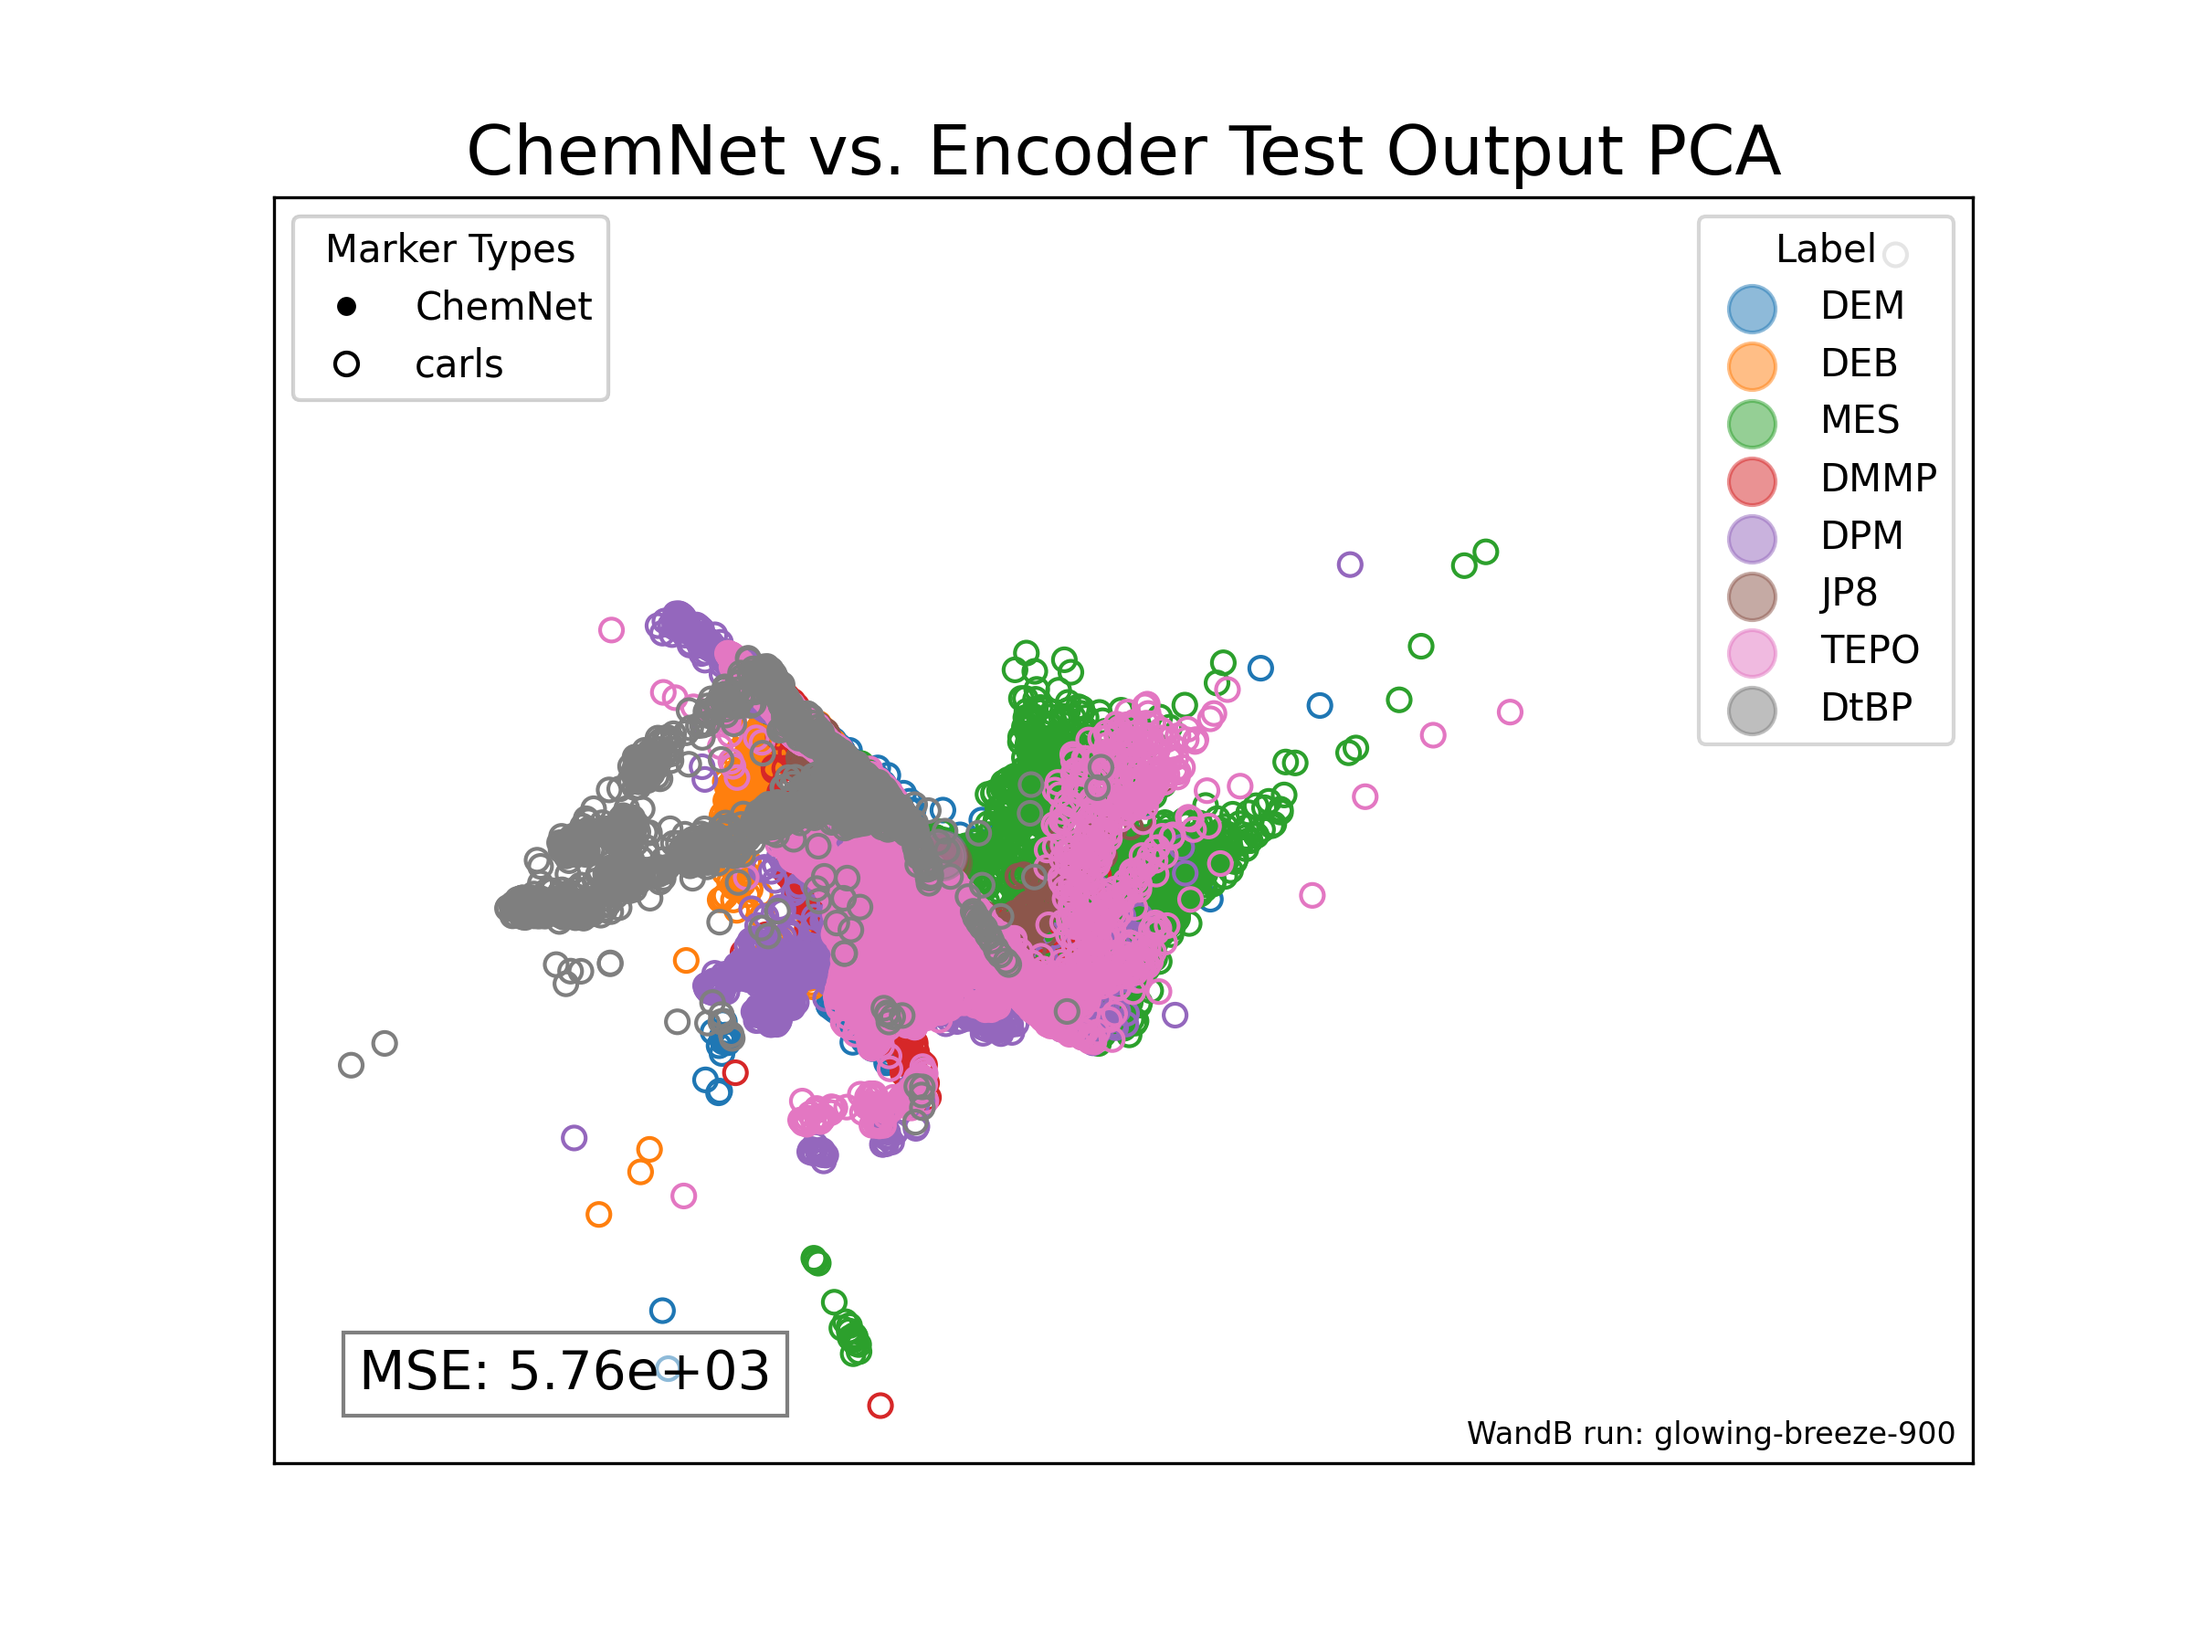
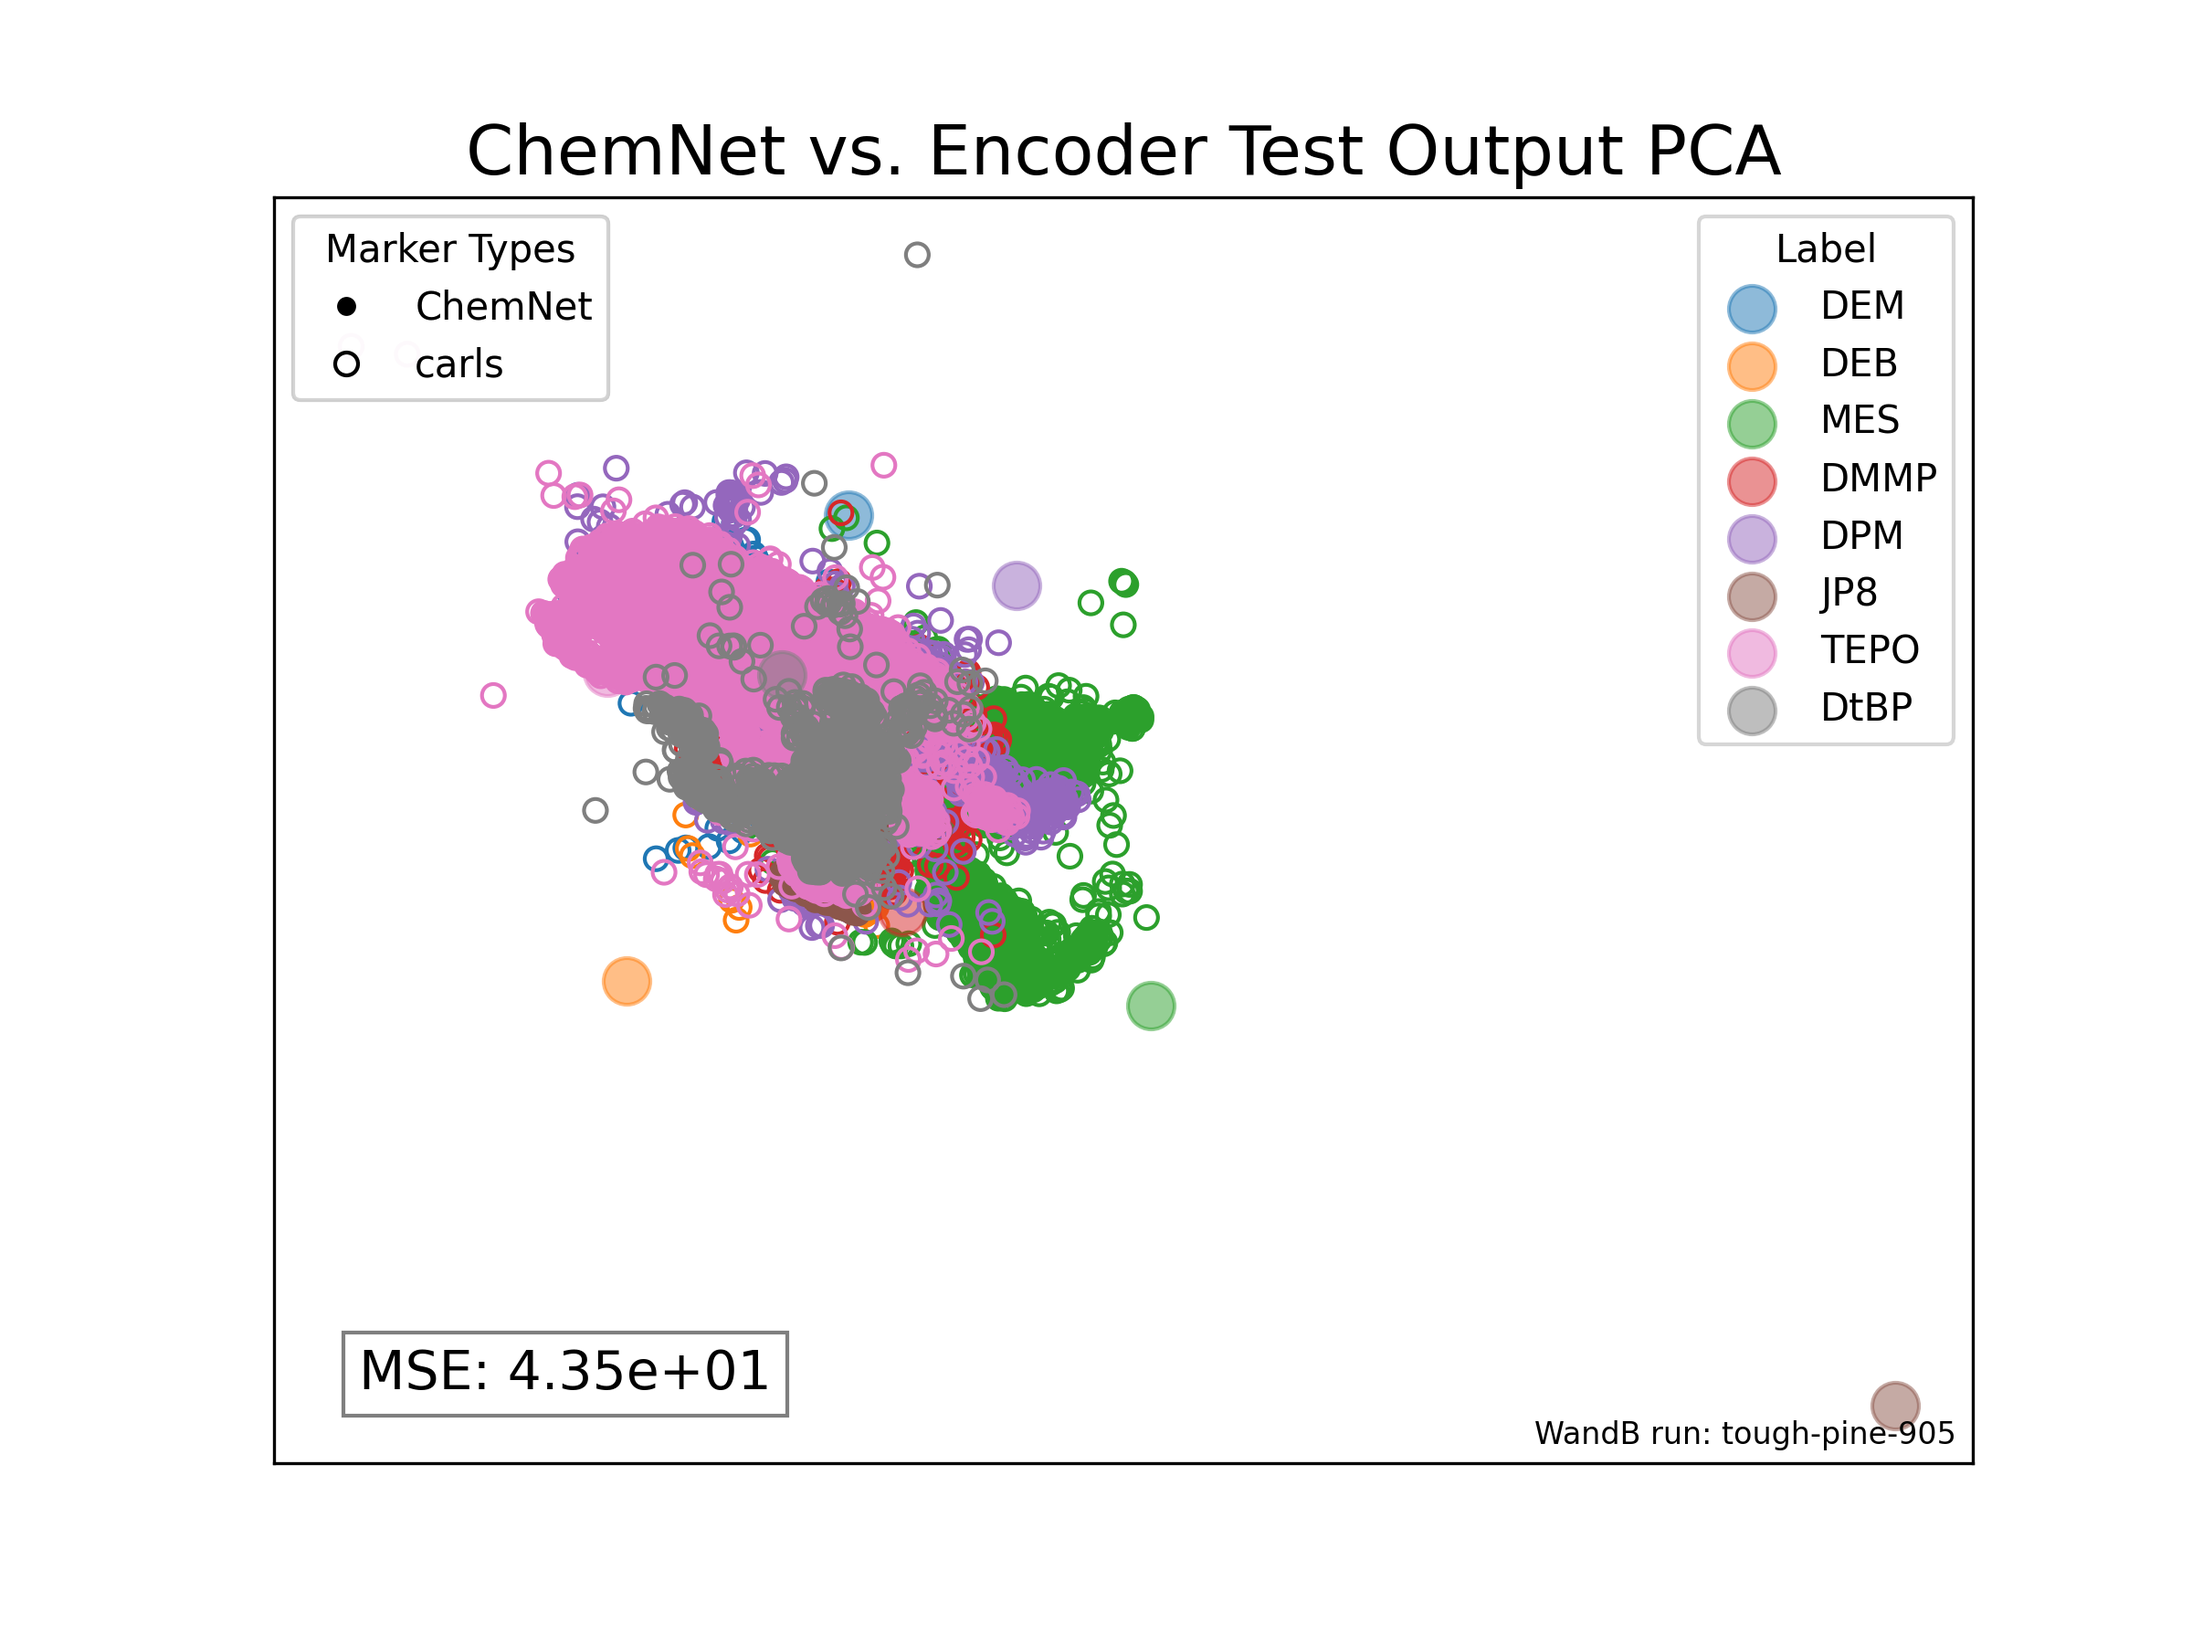
update nan filling

diff --git a/models/conditioning/CARL/carl_to_chemnet_conditional_encoder.py b/models/conditioning/CARL/carl_to_chemnet_conditional_encoder.py
@@ -17,9 +17,9 @@ import torch
 
 early_stopping_threshold = 15
 model_hyperparams = {
-  'batch_size':[32, 64],
+  'batch_size':[64],
   'epochs': [100],
-  'learning_rate':[.00001, .000001],
+  'learning_rate':[.000001],
   }
 
 # Loading Data:
@@ -50,7 +50,7 @@ mass_spec_name_smiles_embedding_df = f.format_embedding_df(file_path) # pd.read_
 model_type = 'ConditionEncoder'
 notebook_name = '/home/cmdunham/ChemicalDataGeneration/models/conditioning/CARL/carl_to_chemnet_conditional_encoder.py'
 architecture = 'carl_conditional_encoder'
-dataset_type = 'carls'
+dataset_type = 'CARLs'
 target_embedding = 'ChemNet'
 encoder_path = '/home/cmdunham/ChemicalDataGeneration/models/trained_models/carl_to_chemnet_conditional_encoder.pth'
 
@@ -85,11 +85,15 @@ train_embeddings_df['index'] = train_carl_indices_tensor.cpu().numpy()
 train_data_with_conditions = pf.merge_conditions(train_embeddings_df, metadata, col_to_insert_before='index')
 # drop the 'index' column after merging conditions since it's no longer needed
 train_data_with_conditions.drop(columns=['index'], inplace=True)
-# replace NaN values with 0
-train_data_with_conditions = train_data_with_conditions.fillna(0)
+# # replace NaN values with 0
+# train_data_with_conditions = train_data_with_conditions.fillna(0)
+# replace NaN values with the mean of each column
+train_data_with_conditions = train_data_with_conditions.fillna(train_data_with_conditions.mean())
+# # round the TemperatureKelvin and PressureBar columns to the nearest integer
+# train_data_with_conditions['TemperatureKelvin'] = train_data_with_conditions['TemperatureKelvin'].round(0)
+# train_data_with_conditions['PressureBar'] = train_data_with_conditions['PressureBar'].round(0)
 # convert the DataFrame back to a tensor
 train_embeddings_tensor = torch.Tensor(train_data_with_conditions.values).to(device)
-print(torch.isnan(train_embeddings_tensor).any())
 del train_data_with_conditions, train_carls
 
 val_embeddings_tensor, val_carl_tensor, val_chem_encodings_tensor, val_carl_indices_tensor = f.create_dataset_tensors(
@@ -104,10 +108,15 @@ val_embeddings_df = pd.DataFrame(val_embeddings_tensor.cpu().numpy())
 val_embeddings_df['index'] = val_carl_indices_tensor.cpu().numpy()
 # merge conditions with true embeddings
 val_data_with_conditions = pf.merge_conditions(val_embeddings_df, metadata, col_to_insert_before='index')
-# replace NaN values with 0
-val_data_with_conditions = val_data_with_conditions.fillna(0)
+# # replace NaN values with 0
+# val_data_with_conditions = val_data_with_conditions.fillna(0)
+# replace NaN values with the mean of each column
+val_data_with_conditions = val_data_with_conditions.fillna(val_data_with_conditions.mean())
 # drop the 'index' column after merging conditions since it's no longer needed
 val_data_with_conditions.drop(columns=['index'], inplace=True)
+# # round the TemperatureKelvin and PressureBar columns to the nearest integer
+# val_data_with_conditions['TemperatureKelvin'] = val_data_with_conditions['TemperatureKelvin'].round(0)
+# val_data_with_conditions['PressureBar'] = val_data_with_conditions['PressureBar'].round(0)
 
 # convert the DataFrame back to a tensor
 val_embeddings_tensor = torch.Tensor(val_data_with_conditions.values).to(device)
@@ -129,8 +138,13 @@ test_embeddings_df['index'] = test_carl_indices_tensor.cpu().numpy()
 test_data_with_conditions = pf.merge_conditions(test_embeddings_df, metadata, col_to_insert_before='index')
 # drop the 'index' column after merging conditions since it's no longer needed
 test_data_with_conditions.drop(columns=['index'], inplace=True)
-# replace NaN values with 0
-test_data_with_conditions = test_data_with_conditions.fillna(0)
+# # replace NaN values with 0
+# test_data_with_conditions = test_data_with_conditions.fillna(0)
+# replace NaN values with the mean of each column
+test_data_with_conditions = test_data_with_conditions.fillna(test_data_with_conditions.mean())
+# # round the TemperatureKelvin and PressureBar columns to the nearest integer    
+# test_data_with_conditions['TemperatureKelvin'] = test_data_with_conditions['TemperatureKelvin'].round(0)
+# test_data_with_conditions['PressureBar'] = test_data_with_conditions['PressureBar'].round(0)
 # convert the DataFrame back to a tensor
 test_embeddings_tensor = torch.Tensor(test_data_with_conditions.values).to(device)
 del test_data_with_conditions, test_carls
